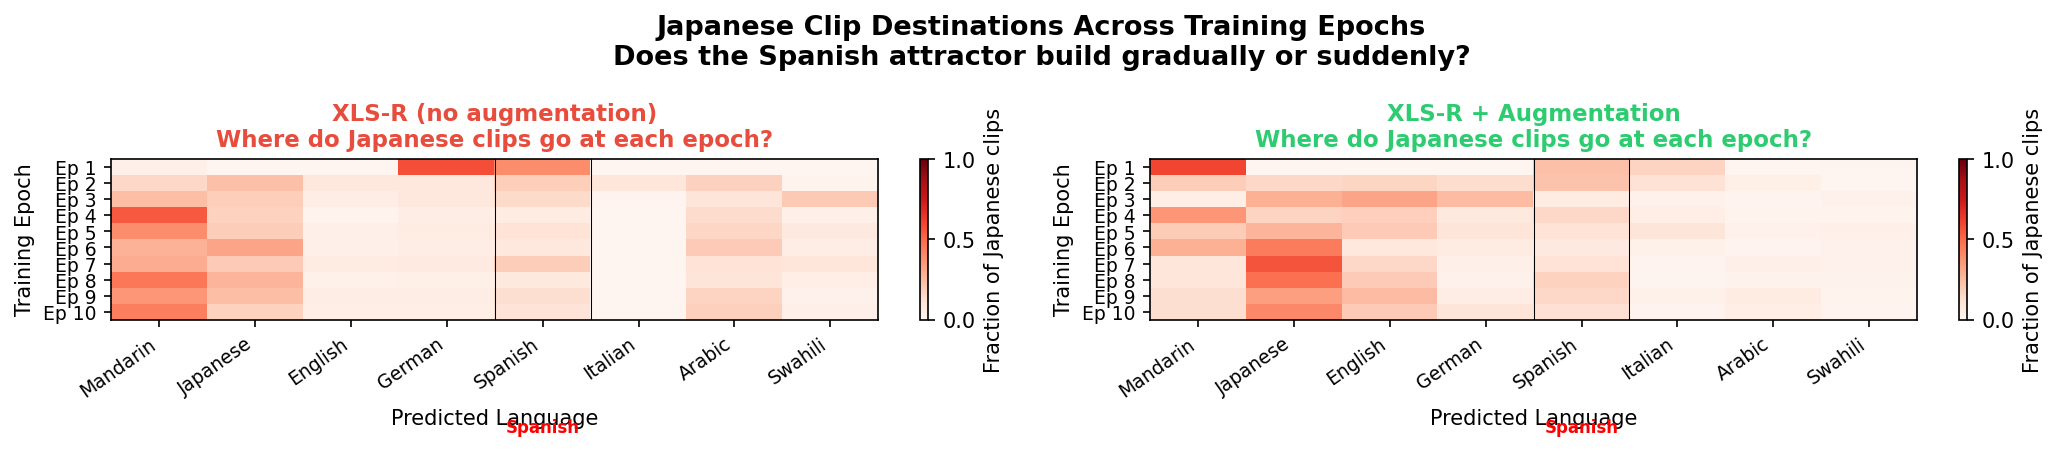
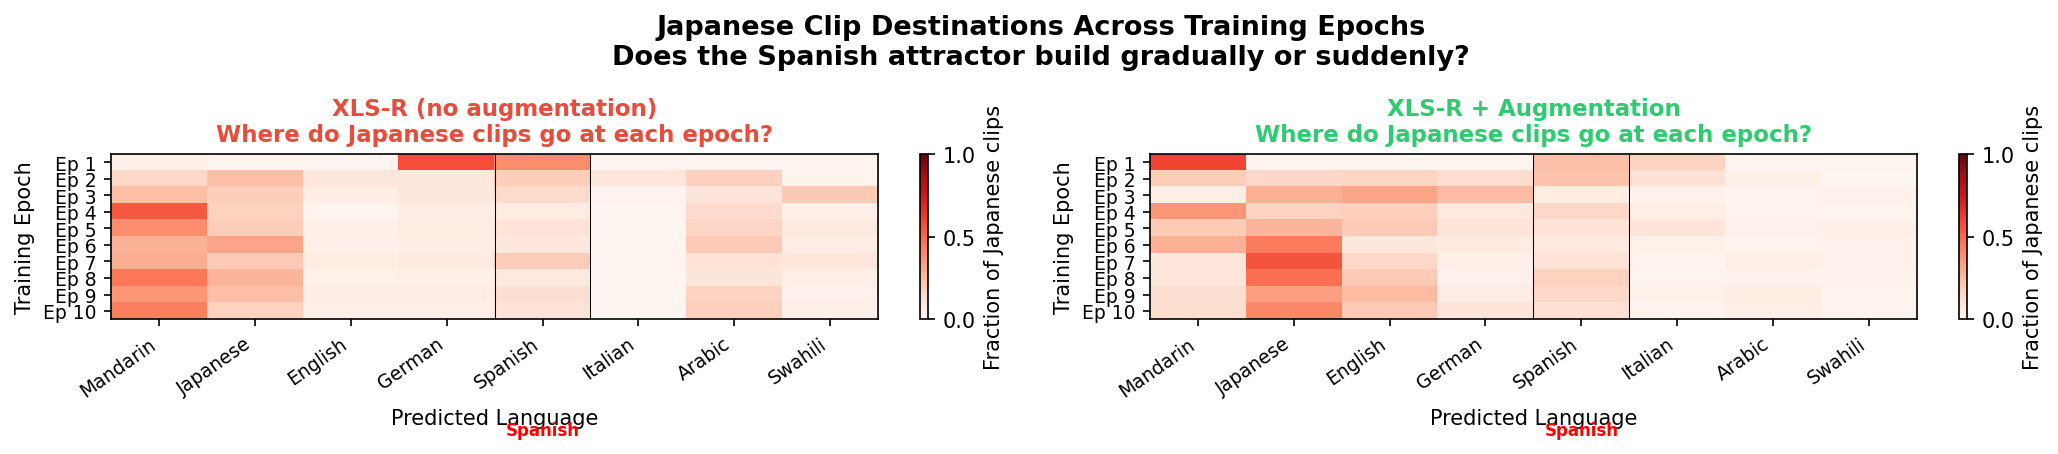
Fix test-set contamination bug in epoch_tracking_train.py
The augmented condition was applying the same augmented preprocessing
function to train, val, AND test sets, corrupting test-set evaluation
with the same noise/masking/speed-perturbation used in training. This
explained an anomalous Italian->Arabic error spike and lower accuracy
in the augmented condition's epoch tracking results.

Fixed to match train_xlsr_augmented.py's pattern: train uses
set_transform with dynamic per-epoch augmentation, val/test use static
deterministic preprocessing (never augmented). Also processed the
learning curve (100/250/500/1500 samples/lang) and plain-condition
epoch tracking results from the cluster run.

The "plain" condition data is valid (no augmentation ever applied) and
shows the Japanese recall collapse happens within epoch 1 and persists.
The "augmented" condition needs a re-run with the fixed script.

diff --git a/src/epoch_tracking_train.py b/src/epoch_tracking_train.py
@@ -113,19 +113,39 @@ def load_split(split: str, max_per_lang=None):
 feature_extractor = Wav2Vec2FeatureExtractor.from_pretrained(MODEL_CKPT)
 
 
-def make_preprocess(use_augmentation: bool):
-    def preprocess(example):
-        arr = np.array(example["audio"]["array"], dtype=np.float32)
-        if len(arr) > MAX_SAMPLES:
-            arr = arr[:MAX_SAMPLES]
-        elif len(arr) < MAX_SAMPLES:
-            arr = np.pad(arr, (0, MAX_SAMPLES - len(arr)))
-        if use_augmentation:
-            arr = augment(arr)
-        inputs = feature_extractor(arr, sampling_rate=SAMPLING_RATE,
-                                   return_tensors="np", padding=False)
-        return {"input_values": inputs.input_values[0], "label": example["label"]}
-    return preprocess
+def preprocess(example):
+    """Static, deterministic preprocessing for val/test — no augmentation,
+    regardless of condition. Keeps evaluation comparable across conditions
+    and consistent with train_xlsr_augmented.py."""
+    arr = np.array(example["audio"]["array"], dtype=np.float32)
+    if len(arr) > MAX_SAMPLES:
+        arr = arr[:MAX_SAMPLES]
+    elif len(arr) < MAX_SAMPLES:
+        arr = np.pad(arr, (0, MAX_SAMPLES - len(arr)))
+    inputs = feature_extractor(arr, sampling_rate=SAMPLING_RATE,
+                               return_tensors="np", padding=False)
+    return {"input_values": inputs.input_values[0], "label": example["label"]}
+
+
+def make_train_transform(use_augmentation: bool):
+    """Dynamic transform for train — re-applied fresh every epoch via
+    set_transform, so augmentation differs each pass instead of being
+    baked in once via .map()."""
+    def train_transform(batch):
+        out_values = []
+        for arr in batch["audio"]:
+            a = np.array(arr["array"], dtype=np.float32)
+            if len(a) > MAX_SAMPLES:
+                a = a[:MAX_SAMPLES]
+            elif len(a) < MAX_SAMPLES:
+                a = np.pad(a, (0, MAX_SAMPLES - len(a)))
+            if use_augmentation:
+                a = augment(a)
+            inputs = feature_extractor(a, sampling_rate=SAMPLING_RATE,
+                                       return_tensors="np", padding=False)
+            out_values.append(inputs.input_values[0])
+        return {"input_values": out_values, "label": batch["label"]}
+    return train_transform
 
 
 # ── Metrics ───────────────────────────────────────────────────────────────────
@@ -198,12 +218,15 @@ def main():
     print(f"  train: {len(train_ds)}, val: {len(val_ds)}, test: {len(test_ds)}")
 
     print("Preprocessing...")
-    preprocess = make_preprocess(use_augmentation=use_aug)
-    train_ds = train_ds.map(preprocess, remove_columns=train_ds.column_names)
-    val_ds   = val_ds.map(preprocess,   remove_columns=val_ds.column_names)
-    test_ds  = test_ds.map(preprocess,  remove_columns=test_ds.column_names)
-    for ds in [train_ds, val_ds, test_ds]:
-        ds.set_format("torch")
+    # train: dynamic augmentation applied fresh every epoch via set_transform
+    # (only perturbs audio when condition == "augmented")
+    train_ds.set_transform(make_train_transform(use_augmentation=use_aug))
+    # val/test: static, deterministic, NEVER augmented — keeps evaluation
+    # comparable between the plain and augmented conditions
+    val_ds  = val_ds.map(preprocess,  remove_columns=val_ds.column_names)
+    test_ds = test_ds.map(preprocess, remove_columns=test_ds.column_names)
+    val_ds.set_format("torch")
+    test_ds.set_format("torch")
 
     print("Loading model...")
     model = Wav2Vec2ForSequenceClassification.from_pretrained(
@@ -233,6 +256,7 @@ def main():
         push_to_hub=False,
         report_to="none",
         dataloader_num_workers=0,
+        remove_unused_columns=False,  # needed: set_transform keeps raw "audio"/"label" columns
     )
 
     trainer = Trainer(

diff --git a/RESEARCH_FINDINGS.md b/RESEARCH_FINDINGS.md
@@ -158,4 +158,25 @@ wav2vec2-base misclassifies 192 Italian clips as Arabic with 0 errors in the rev
 
 ## Direction 5: Confusion Matrix Evolution Across Training Epochs
 
-*(Planned)*
+**Scripts:** `src/epoch_tracking_train.py` (run on HPC cluster), `src/epoch_tracking_visualize.py` (run locally)  
+**Status:** "plain" condition complete and validated. "augmented" condition had a bug — needs re-run.
+
+### Bug found and fixed (2026-06-29)
+
+The first cluster run revealed a preprocessing bug: `epoch_tracking_train.py` applied the same augmented preprocessing function to train, validation, *and* test sets. This meant the "augmented" condition's test-set evaluations were corrupted by the same noise/time-masking/speed-perturbation used during training — explaining an anomalous Italian→Arabic error spike and lower-than-expected accuracy in that condition. The original `train_xlsr_augmented.py` correctly keeps val/test deterministic; the epoch-tracking script has been fixed to match (train uses `set_transform` with dynamic per-epoch augmentation; val/test use static, never-augmented preprocessing). Fix pushed to GitHub — **Fei needs to re-run only `--condition augmented`.**
+
+### Results — "plain" condition (validated, matches known XLS-R behavior)
+
+- Overall test accuracy reaches ~88-90% by epoch 2 and stays stable — consistent with the known xlsr/xlsr_fulldata benchmarks.
+- **Japanese recall collapses by epoch 1** and stays low (0.2-0.4) for the remainder of training — the collapse is not a late-training drift, it appears almost immediately and persists.
+- Italian→Arabic errors stay low throughout (consistent with Direction 4's finding that this asymmetry is a wav2vec2-specific, not XLS-R, phenomenon).
+
+### Takeaways (preliminary — "plain" condition only)
+
+1. **The Japanese collapse happens early, not gradually.** By the end of epoch 1, Japanese recall is already at its long-run low value. This suggests the model finds the Japanese≈Spanish shortcut almost immediately rather than drifting into it slowly — consistent with the model gravitating quickly toward the easiest separating feature (vowel quality) and then not being dislodged from it by further training.
+
+2. Full comparison against the augmented condition is pending the cluster re-run.
+
+### Implications for the Paper
+
+> "The Japanese recall collapse is established within the first training epoch and persists essentially unchanged through epoch 10, suggesting XLS-R converges quickly onto a shortcut feature (likely vowel quality) rather than gradually drifting into it. This is consistent with the broader pattern of shortcut learning: once the model finds an easy separating cue, subsequent training does not self-correct without an external intervention such as augmentation."
